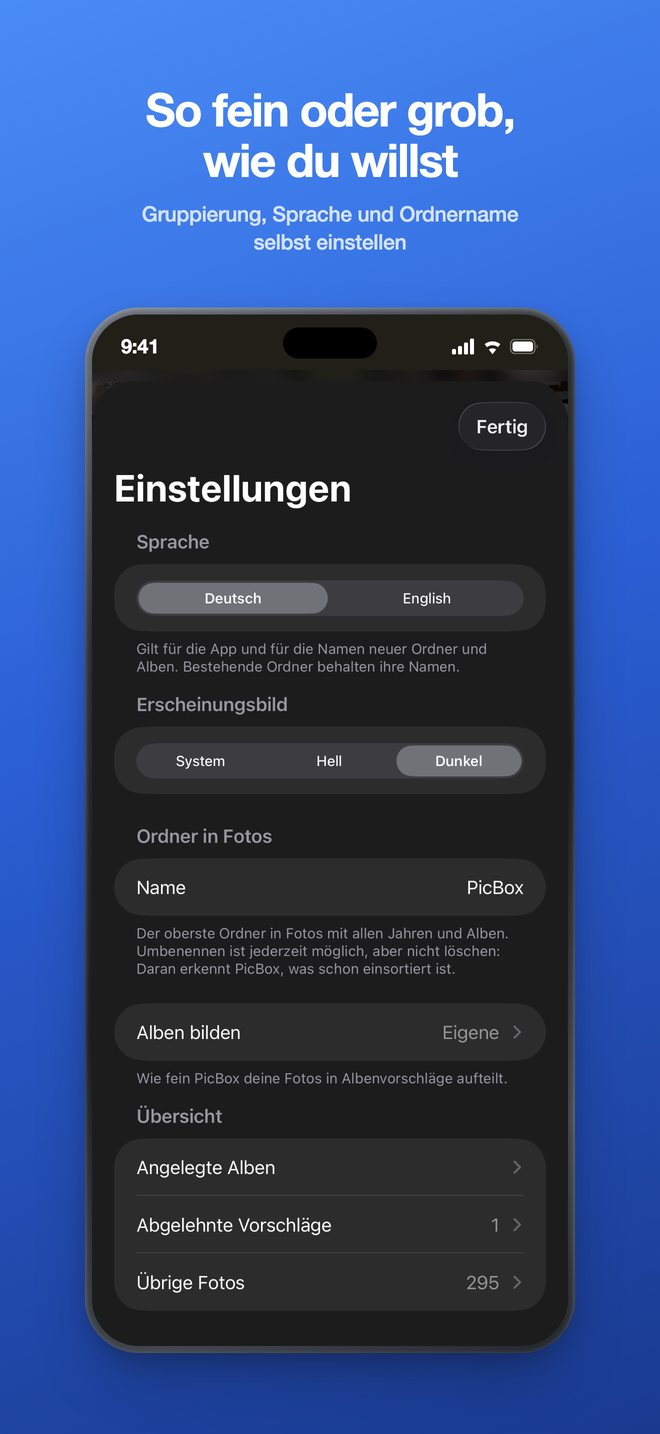
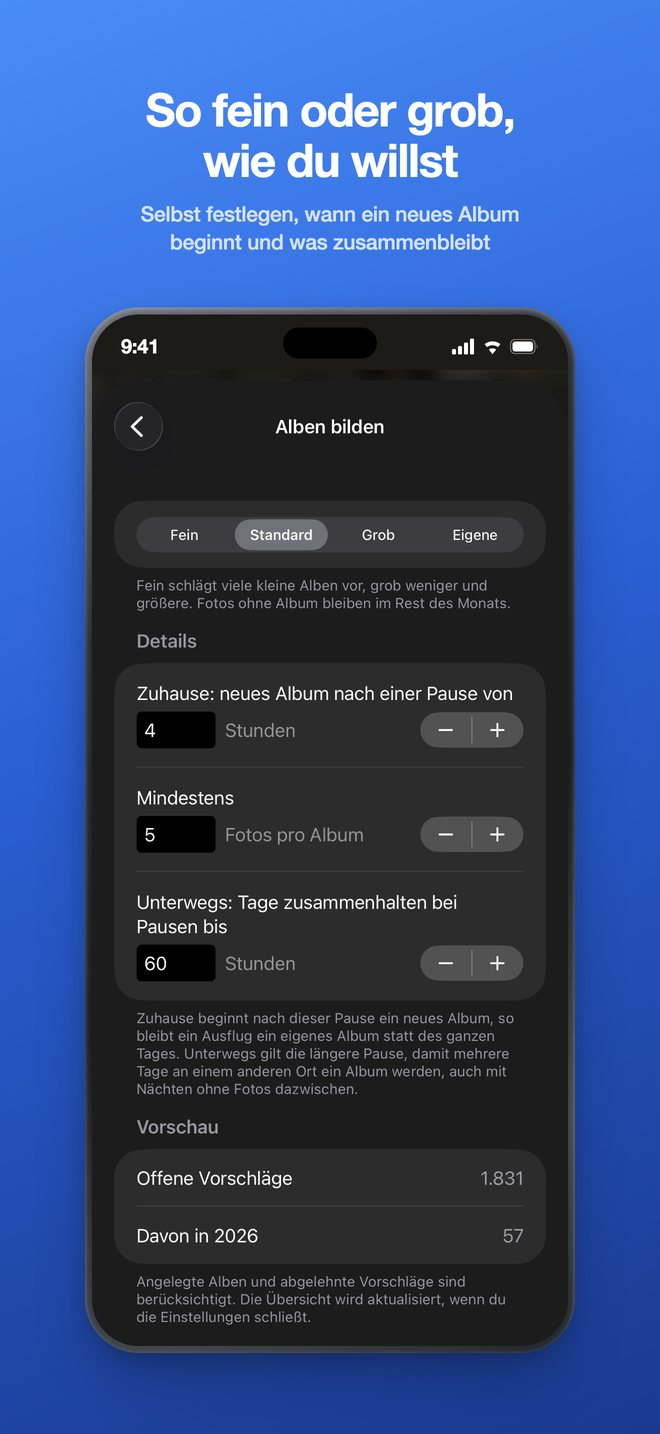
Show the album grouping screen in the gallery

diff --git a/index.html b/index.html
@@ -154,7 +154,7 @@
     <img src="assets/img/store-04-de.jpg" width="660" height="1434" loading="lazy"
          alt="App-Store-Bild: Jedes Foto am richtigen Platz - die Fotoauswahl eines Vorschlags">
     <img src="assets/img/store-05-de.jpg" width="660" height="1434" loading="lazy"
-         alt="App-Store-Bild: So fein oder grob, wie du willst - die Einstellungen">
+         alt="App-Store-Bild: So fein oder grob, wie du willst - die Einstellung, wie Alben gebildet werden">
     <img src="assets/img/store-06-de.jpg" width="660" height="1434" loading="lazy"
          alt="App-Store-Bild: Nichts wird gelöscht - die Einführung beim ersten Start">
   </div>
